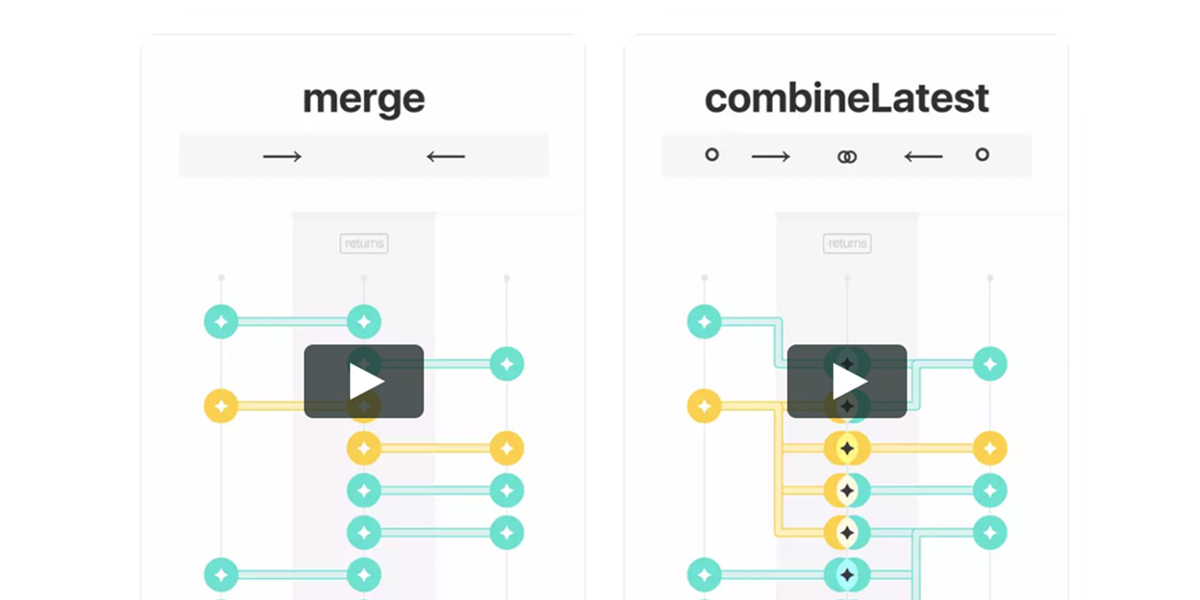
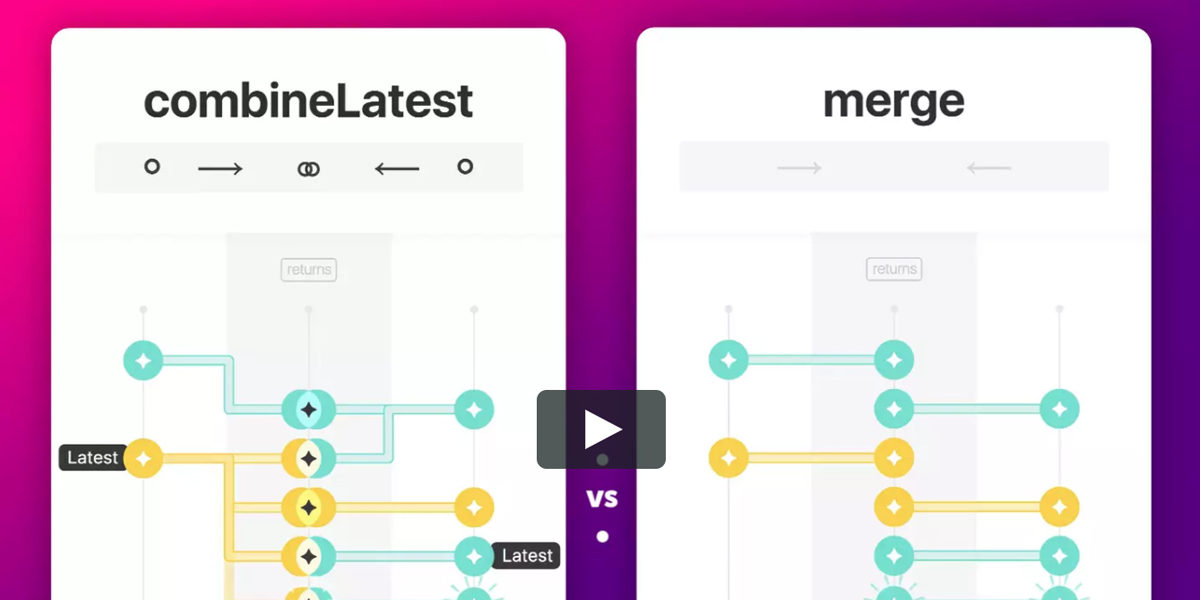
Add Episode 7

diff --git a/css/main.scss b/css/main.scss
@@ -67,6 +67,7 @@ ul.triangle {
     padding-bottom: 155.75%;    
     height: 0;
     overflow: hidden;
+    border-radius: 8px;
     iframe {
         position: absolute;
         border: 0;

diff --git a/combineLatest.md b/combineLatest.md
@@ -1,0 +1,26 @@
+---
+id: combineLatest
+lesson: 7
+title: CombineLatest - Learn reactive programming
+layout: default
+class: post
+preview_image: content_preview.jpg
+preview_image_alt: CombineLatest vs Merge
+---
+
+In [Episode 5](/merge) you have discovered the _combining streams_ category and [merged](/merge) two input streams. Today, I show you a second card from this category: `❚ combineLatest`.
+
+Let's compare this card with `❚ merge`, used on the same inputs:
+
+{% include card_player.html video=240131697 episode=true %}
+
+On the one hand, `❚ merge` doesn't need a _projection function_, as it doesn't change the event values (learn more about projection functions in [Episode 2](/map)).
+
+On the other hand, `❚ combineLatest` accepts a _projection function_ to combine two values (or more) into a new one, noted figuratively `⚬ ⟶ ⚭ ⟵ ⚬`.
+
+ This is how `❚ combineLatest` operates with two (or more) input streams:
+
+- **Whenever** any input stream emits a value, it combines the **latest** values emitted by each input stream
+- As a result, it returns a new stream of combined events
+
+You now know two different ways of combining streams 🙌. Next Monday, I'll show you a third card that combines streams!
